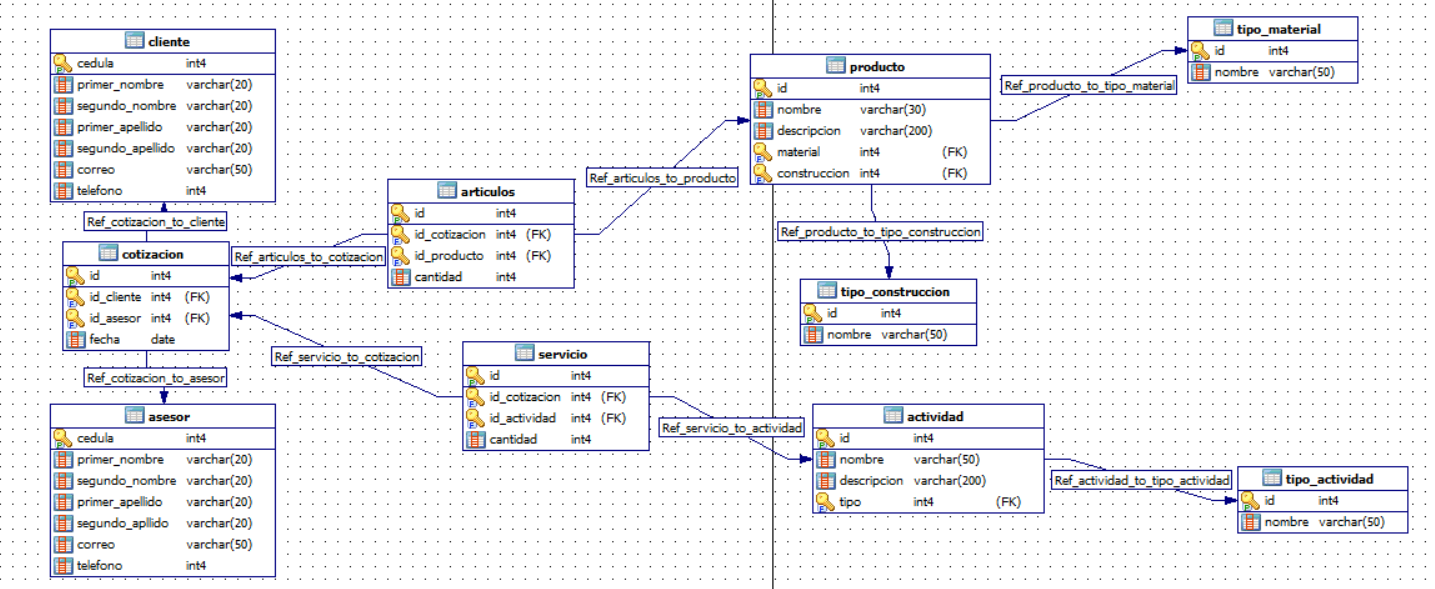
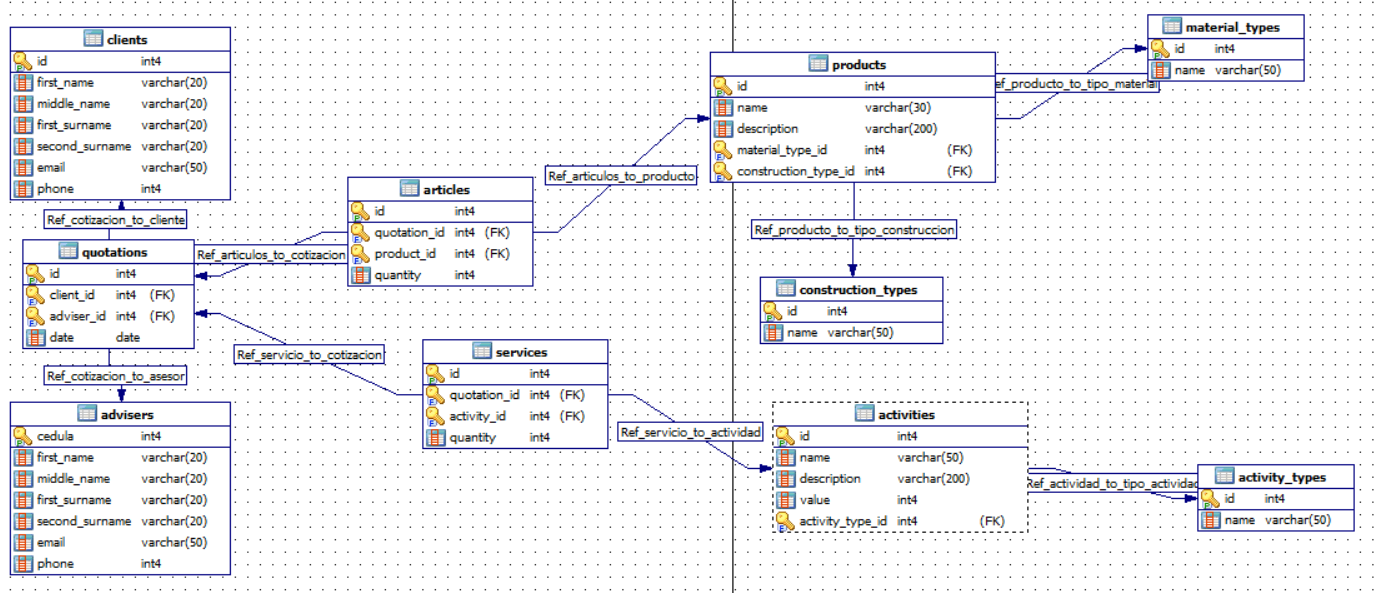
Cambios bootstrap y diagramas de secuencia
Cambios en el proyecto para que funcione bootstrap y diagramas de
secuencia

Changed region(s): [[0.0, 0.0, 1.0, 1.0]]

diff --git a/sistemaCotizacion/db/schema.rb b/sistemaCotizacion/db/schema.rb
@@ -18,6 +18,7 @@ ActiveRecord::Schema.define(version: 20171012212032) do
   create_table "activities", force: :cascade do |t|
     t.string "name", limit: 50
     t.string "description", limit: 200
+    t.integer "value"
     t.bigint "activity_type_id"
     t.datetime "created_at", null: false
     t.datetime "updated_at", null: false

diff --git a/sistemaCotizacion/db/migrate/20171012211121_create_activities.rb b/sistemaCotizacion/db/migrate/20171012211121_create_activities.rb
@@ -3,6 +3,7 @@ class CreateActivities < ActiveRecord::Migration[5.1]
     create_table :activities do |t|
       t.string :name, limit: 50
       t.string :description, limit: 200
+      t.integer :value
       t.references :activity_type, foreign_key: true
 
       t.timestamps
